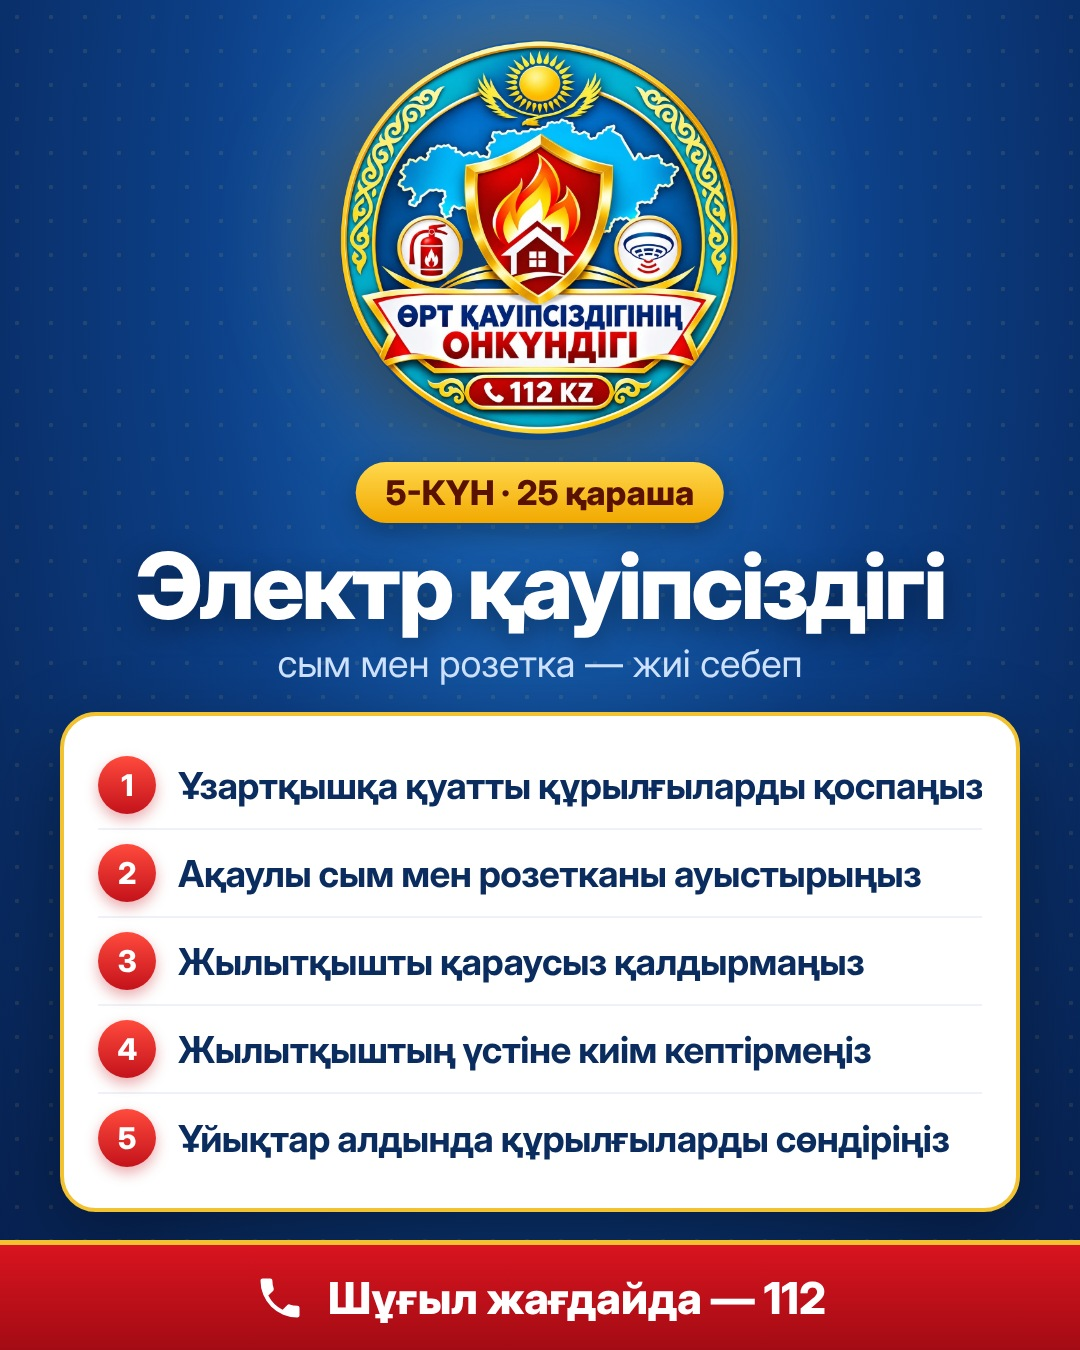
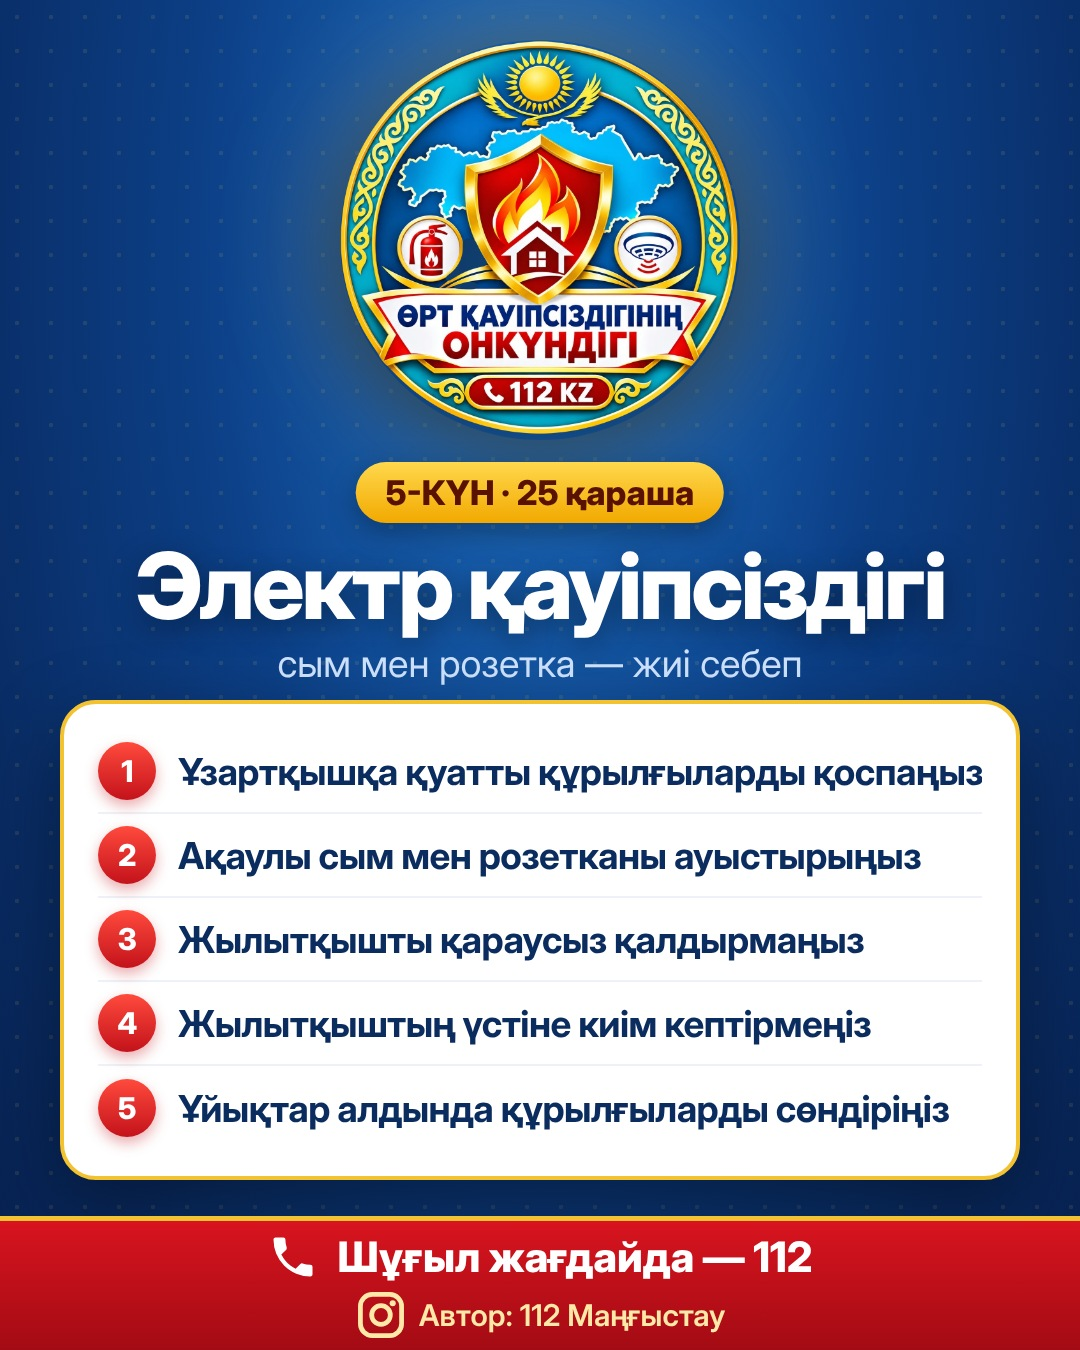
Campaign posts: add 112 Маңғыстау author line
Claude-Session: https://claude.ai/code/session_01UaW116Q3TcPQWUDvgqJitd

Changed region(s): [[0.0, 0.4978, 1.0, 0.9956]]

diff --git a/готовое/онкүндік/мәтіндер.md b/готовое/онкүндік/мәтіндер.md
@@ -1,7 +1,13 @@
 # «Өрт қауіпсіздігінің онкүндігі» — Инстаграм посттарының мәтіндері
 
-Ортақ хэштегтер (әр постың соңына):
-`#ӨртҚауіпсіздігініңОнкүндігі #112 #ТЖМ #өртқауіпсіздігі #қауіпсіздік #Қазақстан`
+Әр постың соңына міндетті түрде:
+
+`📌 Автор: 112 Маңғыстау`
+
+(Инстаграм атауы нақтыланса — `@...` белгісімен тегтеледі.)
+
+Ортақ хэштегтер:
+`#ӨртҚауіпсіздігініңОнкүндігі #112 #ТЖМ #өртқауіпсіздігі #қауіпсіздік #Қазақстан #112Маңғыстау #Маңғыстау #Ақтау`
 
 ---
 
